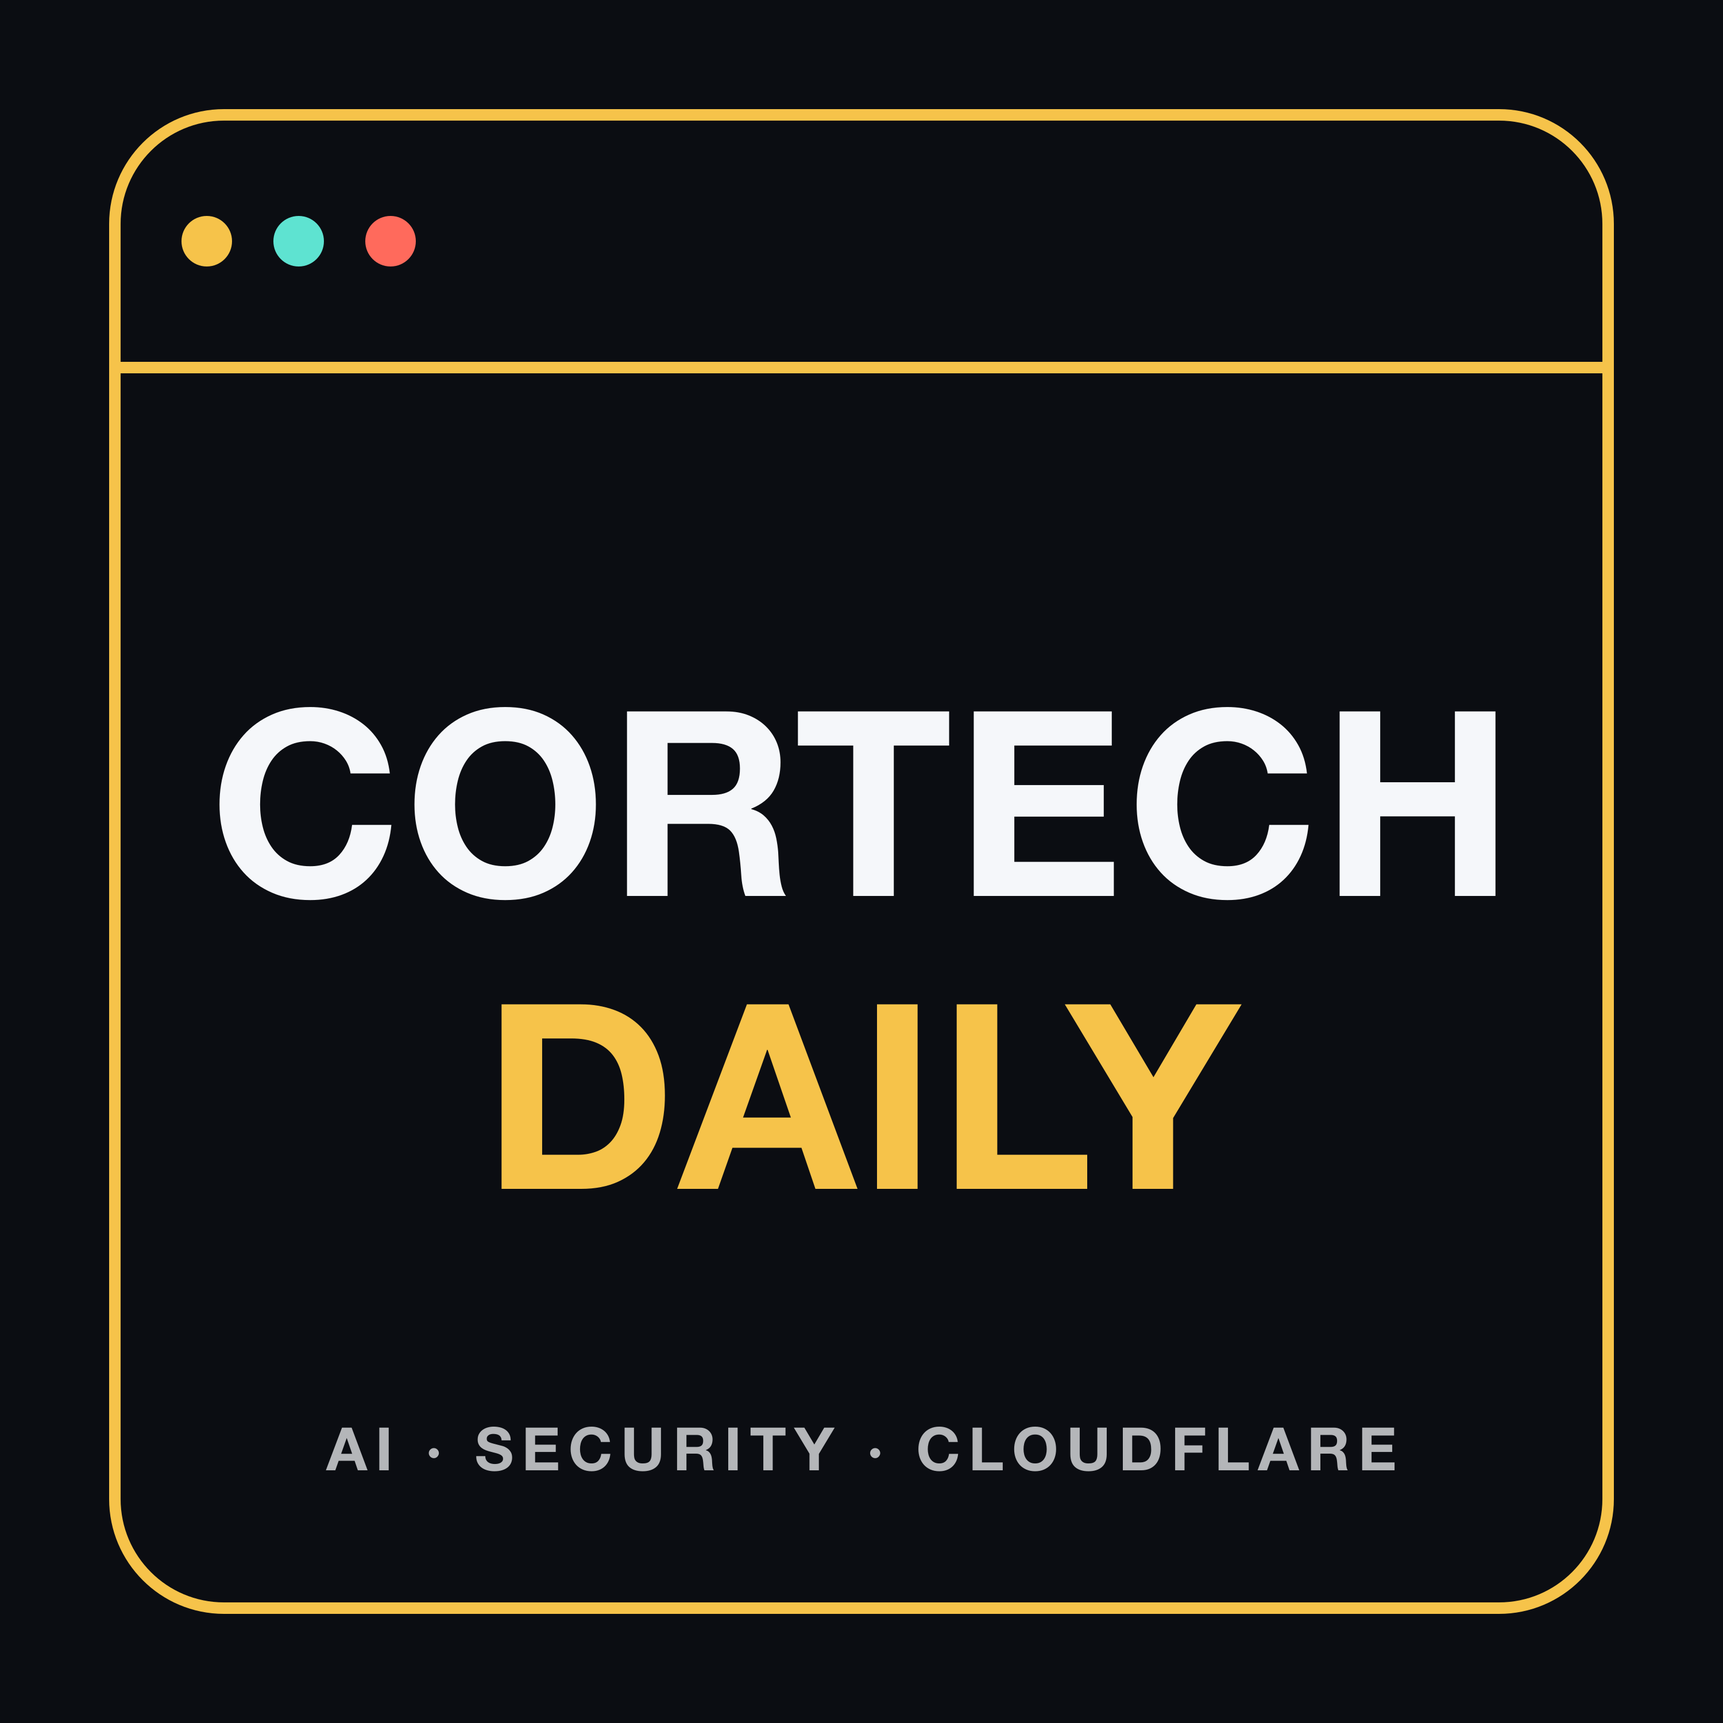
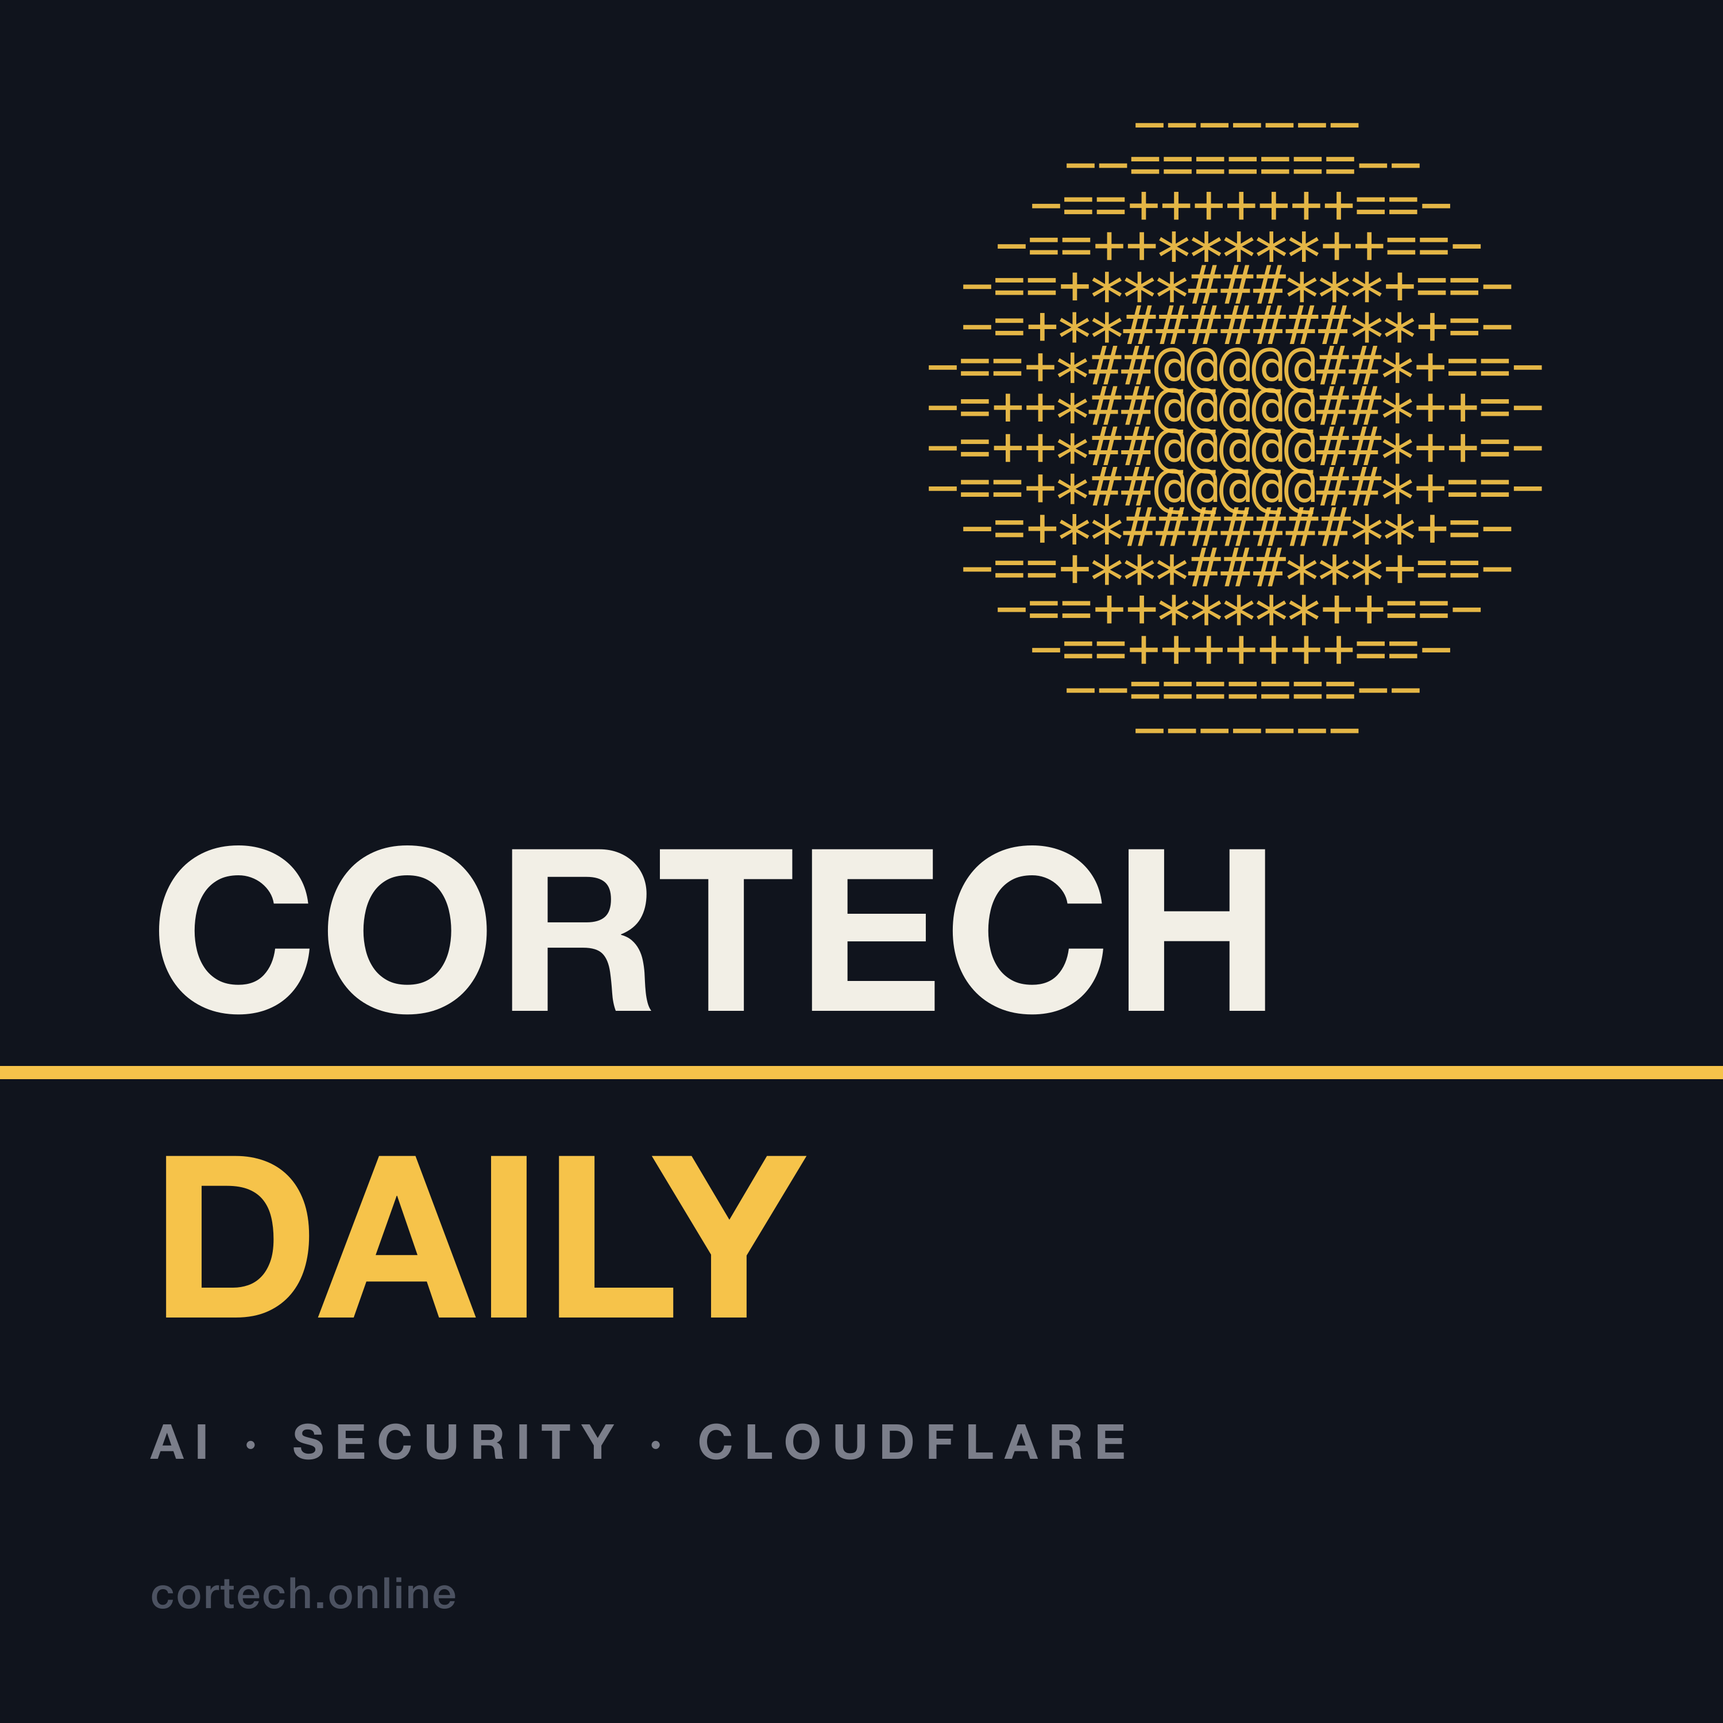
feat(podcast): horizon show art for Cortech Daily (#203)
Replaces the CortechOS window frame with a horizon: a hard-edged amber
rule running between CORTECH and DAILY, under an ASCII sun. The window
chrome said "this is a Cortech thing" but nothing about the show; the
horizon is the one idea specific to a DAILY one, and the ASCII sun keeps
the terminal register the brand already has.

The sun grid is SHARED ART - the same 19x16 table as ASCII_SUN in
clodcast's skills/daily-podcast/render.py, which draws the episode
covers. That shared table is what makes the show cover and every episode
cover the same picture, so a change to one is a change to both; the
script comment and docs/podcast-metadata.md both say so.

Every glyph carries its own x rather than relying on letter-spacing, so
the disc's geometry comes from the table and never from the font's
advance width - librsvg resolving Menlo, DejaVu Sans Mono or anything
else still puts each character on the same cell.

Unchanged: filename, dimensions (3000x3000), opaque RGB, and the
AI · SECURITY · CLOUDFLARE subject strip the Spotify playbook requires,
since "Cortech Daily" does not itself convey the subject. No feed or
route touched.

Gates: prettier --check clean, eslint clean, 229 tests passed,
astro check + tsc 0 errors, build complete (15 pages).

Changed region(s): [[0.0, 0.062, 1.0, 0.961], [0.155, 0.806, 0.806, 0.868], [0.899, 0.899, 0.93, 0.93]]

diff --git a/docs/podcast-metadata.md b/docs/podcast-metadata.md
@@ -29,15 +29,15 @@ change applies to future episodes only, or decouples display title from slug fir
 
 ## Decisions
 
-| Field                   | Value                                                      | Why                                                                                                                                                                                                                                                                                                                                                                                                                                                                                                                                                                                                                                                                                                                 |
-| ----------------------- | ---------------------------------------------------------- | ------------------------------------------------------------------------------------------------------------------------------------------------------------------------------------------------------------------------------------------------------------------------------------------------------------------------------------------------------------------------------------------------------------------------------------------------------------------------------------------------------------------------------------------------------------------------------------------------------------------------------------------------------------------------------------------------------------------- |
-| `PODCAST_TITLE`         | `Cortech Daily`                                            | The previous `Cortech — Daily Digest Podcast` tripped three items on the playbook's SEO checklist at once: an em dash (special characters render inconsistently across directories), the word "Podcast" (the playbook calls generic terms like "pod"/"podcast" a waste of a searchable field), and "Daily Digest" as a **colliding name** — the playbook warns that when many results match a name, more popular items outrank you. `Cortech Daily` is short enough to survive mobile tile truncation and spelled to match `CortechOS`, the README, and the domain. An intercap (`CorTech`) was considered and rejected: it appears on no other surface we own, and the playbook advises against unusual spellings. |
-| `PODCAST_DESCRIPTION`   | see source                                                 | Rewritten to lead with listener value rather than format — the playbook wants the first two lines to hook, with no links or ads. Names the host (a checklist item), states the concrete promise (≈9 minutes, ≈11 stories, sourced), and covers the full topic range so search has keywords to match. **The AI-narration disclosure is load-bearing and must stay**: Spotify actively prunes undisclosed AI-generated shows, so transparency is a defensive asset.                                                                                                                                                                                                                                                   |
-| `AUTHOR` / `OWNER_NAME` | `Schmug`                                                   | Three surfaces previously disagreed — the feed said `Schmug`, the description said "Cory Schmug", and clodcast's `config.json` sets `host_name: "Cory"`. `Schmug` wins because [CLAUDE.md](../CLAUDE.md) already fixes it as the site-owner name and it matches the GitHub handle a listener would search. The description now says Schmug too. Aligning clodcast's `host_name` is [schmug/clodcast#129](https://github.com/schmug/clodcast/issues/129).                                                                                                                                                                                                                                                            |
-| `OWNER_EMAIL`           | `clodcast@cortech.online`                                  | Moved off `cory@` so both shows route owner mail to one show address, separable from personal mail. **Must stay deliverable** — Spotify re-verifies ownership of this already-listed show through it, so a missing Cloudflare Email Routing rule costs the ability to prove ownership of a live show. Now shared with Frontier Commits, which means one broken rule takes down verification for both.                                                                                                                                                                                                                                                                                                               |
-| `CATEGORIES`            | `Technology`; `News` → `Tech News`; `Education` → `How To` | One bare category was the weakest possible discovery position; Apple and Spotify allow three. `News > Tech News` is arguably the truest fit — this is a daily news digest by format — and reaches a browse surface `Technology` alone never touches. All three are **exact Apple Podcasts strings**; invented categories are silently dropped.                                                                                                                                                                                                                                                                                                                                                                      |
-| `COPYRIGHT`             | `© 2026 Schmug`                                            | Was absent.                                                                                                                                                                                                                                                                                                                                                                                                                                                                                                                                                                                                                                                                                                         |
-| `COVER_URL`             | `podcast-cover.png`, now 3000×3000                         | Was exactly the 1400×1400 minimum; 3000×3000 is the recommendation and what marketing surfaces upscale from. Re-cut from vector by [scripts/generate-podcast-cover.mjs](../scripts/generate-podcast-cover.mjs) rather than upscaled — the old art also still read "Daily Digest", the previous show name. Because "Cortech Daily" does not itself convey the subject, the playbook requires the art to, hence the `AI · SECURITY · CLOUDFLARE` strip. Verified legible at 120px (the playbook's "squint test").                                                                                                                                                                                                     |
+| Field                   | Value                                                      | Why                                                                                                                                                                                                                                                                                                                                                                                                                                                                                                                                                                                                                                                                                                                                                                                                                         |
+| ----------------------- | ---------------------------------------------------------- | --------------------------------------------------------------------------------------------------------------------------------------------------------------------------------------------------------------------------------------------------------------------------------------------------------------------------------------------------------------------------------------------------------------------------------------------------------------------------------------------------------------------------------------------------------------------------------------------------------------------------------------------------------------------------------------------------------------------------------------------------------------------------------------------------------------------------- |
+| `PODCAST_TITLE`         | `Cortech Daily`                                            | The previous `Cortech — Daily Digest Podcast` tripped three items on the playbook's SEO checklist at once: an em dash (special characters render inconsistently across directories), the word "Podcast" (the playbook calls generic terms like "pod"/"podcast" a waste of a searchable field), and "Daily Digest" as a **colliding name** — the playbook warns that when many results match a name, more popular items outrank you. `Cortech Daily` is short enough to survive mobile tile truncation and spelled to match `CortechOS`, the README, and the domain. An intercap (`CorTech`) was considered and rejected: it appears on no other surface we own, and the playbook advises against unusual spellings.                                                                                                         |
+| `PODCAST_DESCRIPTION`   | see source                                                 | Rewritten to lead with listener value rather than format — the playbook wants the first two lines to hook, with no links or ads. Names the host (a checklist item), states the concrete promise (≈9 minutes, ≈11 stories, sourced), and covers the full topic range so search has keywords to match. **The AI-narration disclosure is load-bearing and must stay**: Spotify actively prunes undisclosed AI-generated shows, so transparency is a defensive asset.                                                                                                                                                                                                                                                                                                                                                           |
+| `AUTHOR` / `OWNER_NAME` | `Schmug`                                                   | Three surfaces previously disagreed — the feed said `Schmug`, the description said "Cory Schmug", and clodcast's `config.json` sets `host_name: "Cory"`. `Schmug` wins because [CLAUDE.md](../CLAUDE.md) already fixes it as the site-owner name and it matches the GitHub handle a listener would search. The description now says Schmug too. Aligning clodcast's `host_name` is [schmug/clodcast#129](https://github.com/schmug/clodcast/issues/129).                                                                                                                                                                                                                                                                                                                                                                    |
+| `OWNER_EMAIL`           | `clodcast@cortech.online`                                  | Moved off `cory@` so both shows route owner mail to one show address, separable from personal mail. **Must stay deliverable** — Spotify re-verifies ownership of this already-listed show through it, so a missing Cloudflare Email Routing rule costs the ability to prove ownership of a live show. Now shared with Frontier Commits, which means one broken rule takes down verification for both.                                                                                                                                                                                                                                                                                                                                                                                                                       |
+| `CATEGORIES`            | `Technology`; `News` → `Tech News`; `Education` → `How To` | One bare category was the weakest possible discovery position; Apple and Spotify allow three. `News > Tech News` is arguably the truest fit — this is a daily news digest by format — and reaches a browse surface `Technology` alone never touches. All three are **exact Apple Podcasts strings**; invented categories are silently dropped.                                                                                                                                                                                                                                                                                                                                                                                                                                                                              |
+| `COPYRIGHT`             | `© 2026 Schmug`                                            | Was absent.                                                                                                                                                                                                                                                                                                                                                                                                                                                                                                                                                                                                                                                                                                                                                                                                                 |
+| `COVER_URL`             | `podcast-cover.png`, now 3000×3000                         | Was exactly the 1400×1400 minimum; 3000×3000 is the recommendation and what marketing surfaces upscale from. Re-cut from vector by [scripts/generate-podcast-cover.mjs](../scripts/generate-podcast-cover.mjs) rather than upscaled. Art as of 2026-08 is the horizon: a hard-edged amber rule running between CORTECH and DAILY under an ASCII sun (clodcast#163). The sun is the same 19×16 glyph table as `ASCII_SUN` in clodcast's `render.py`, which draws the episode covers — that shared table is what makes the show cover and every episode cover the same picture, so a change to one is a change to both. Because "Cortech Daily" does not itself convey the subject, the playbook requires the art to, hence the `AI · SECURITY · CLOUDFLARE` strip. Verified legible at 120px (the playbook's "squint test"). |
 
 ## Episode titles
 
